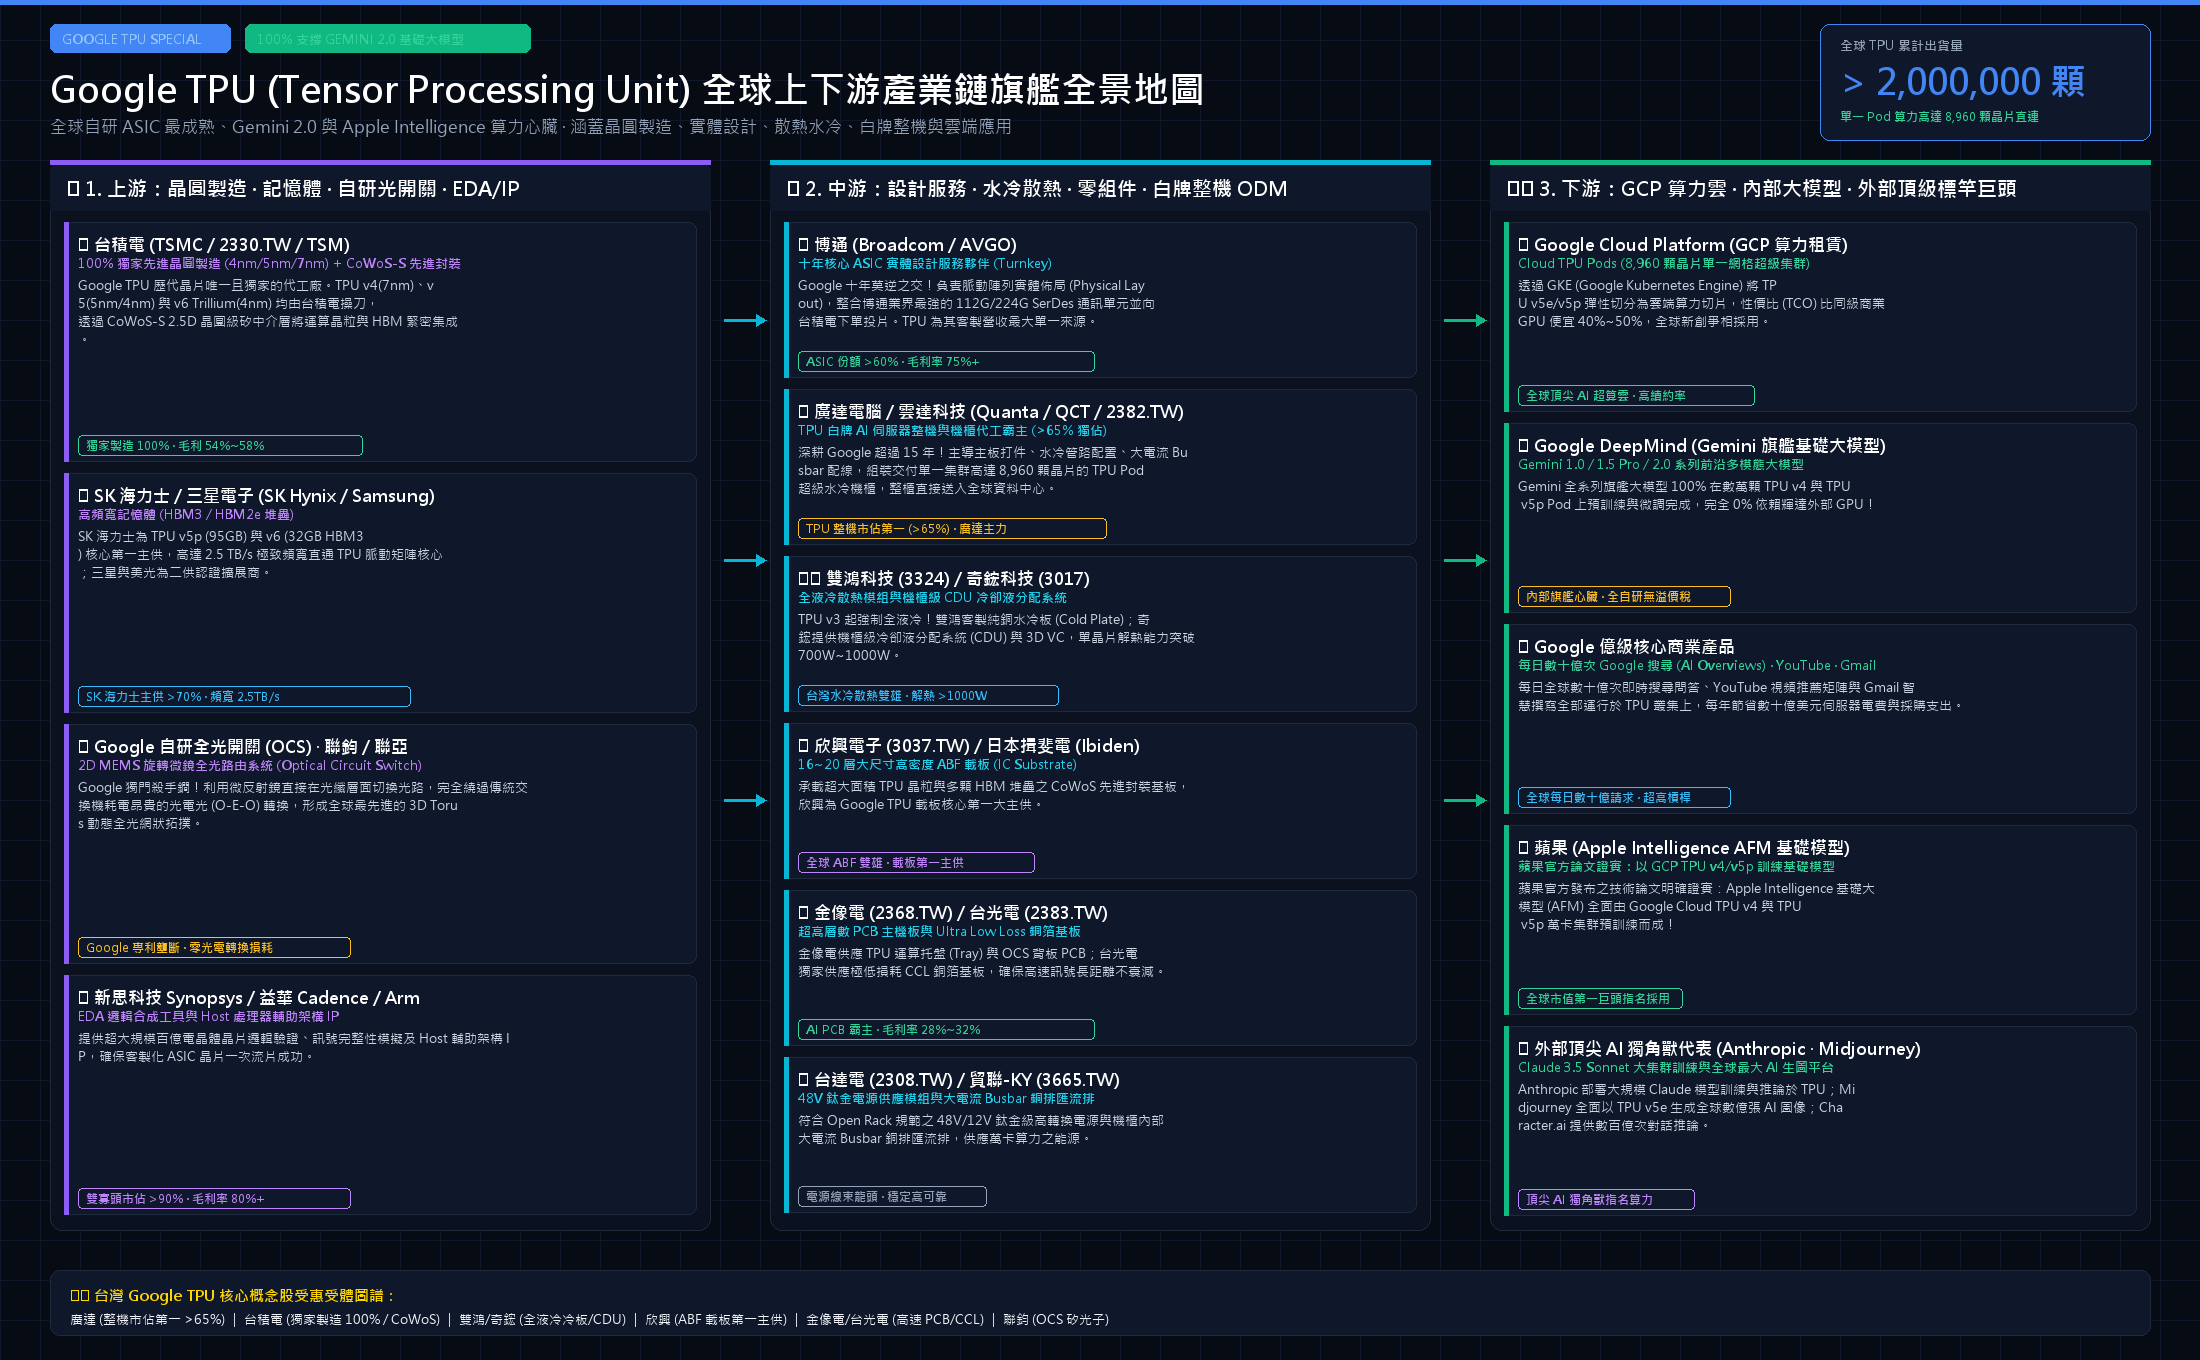
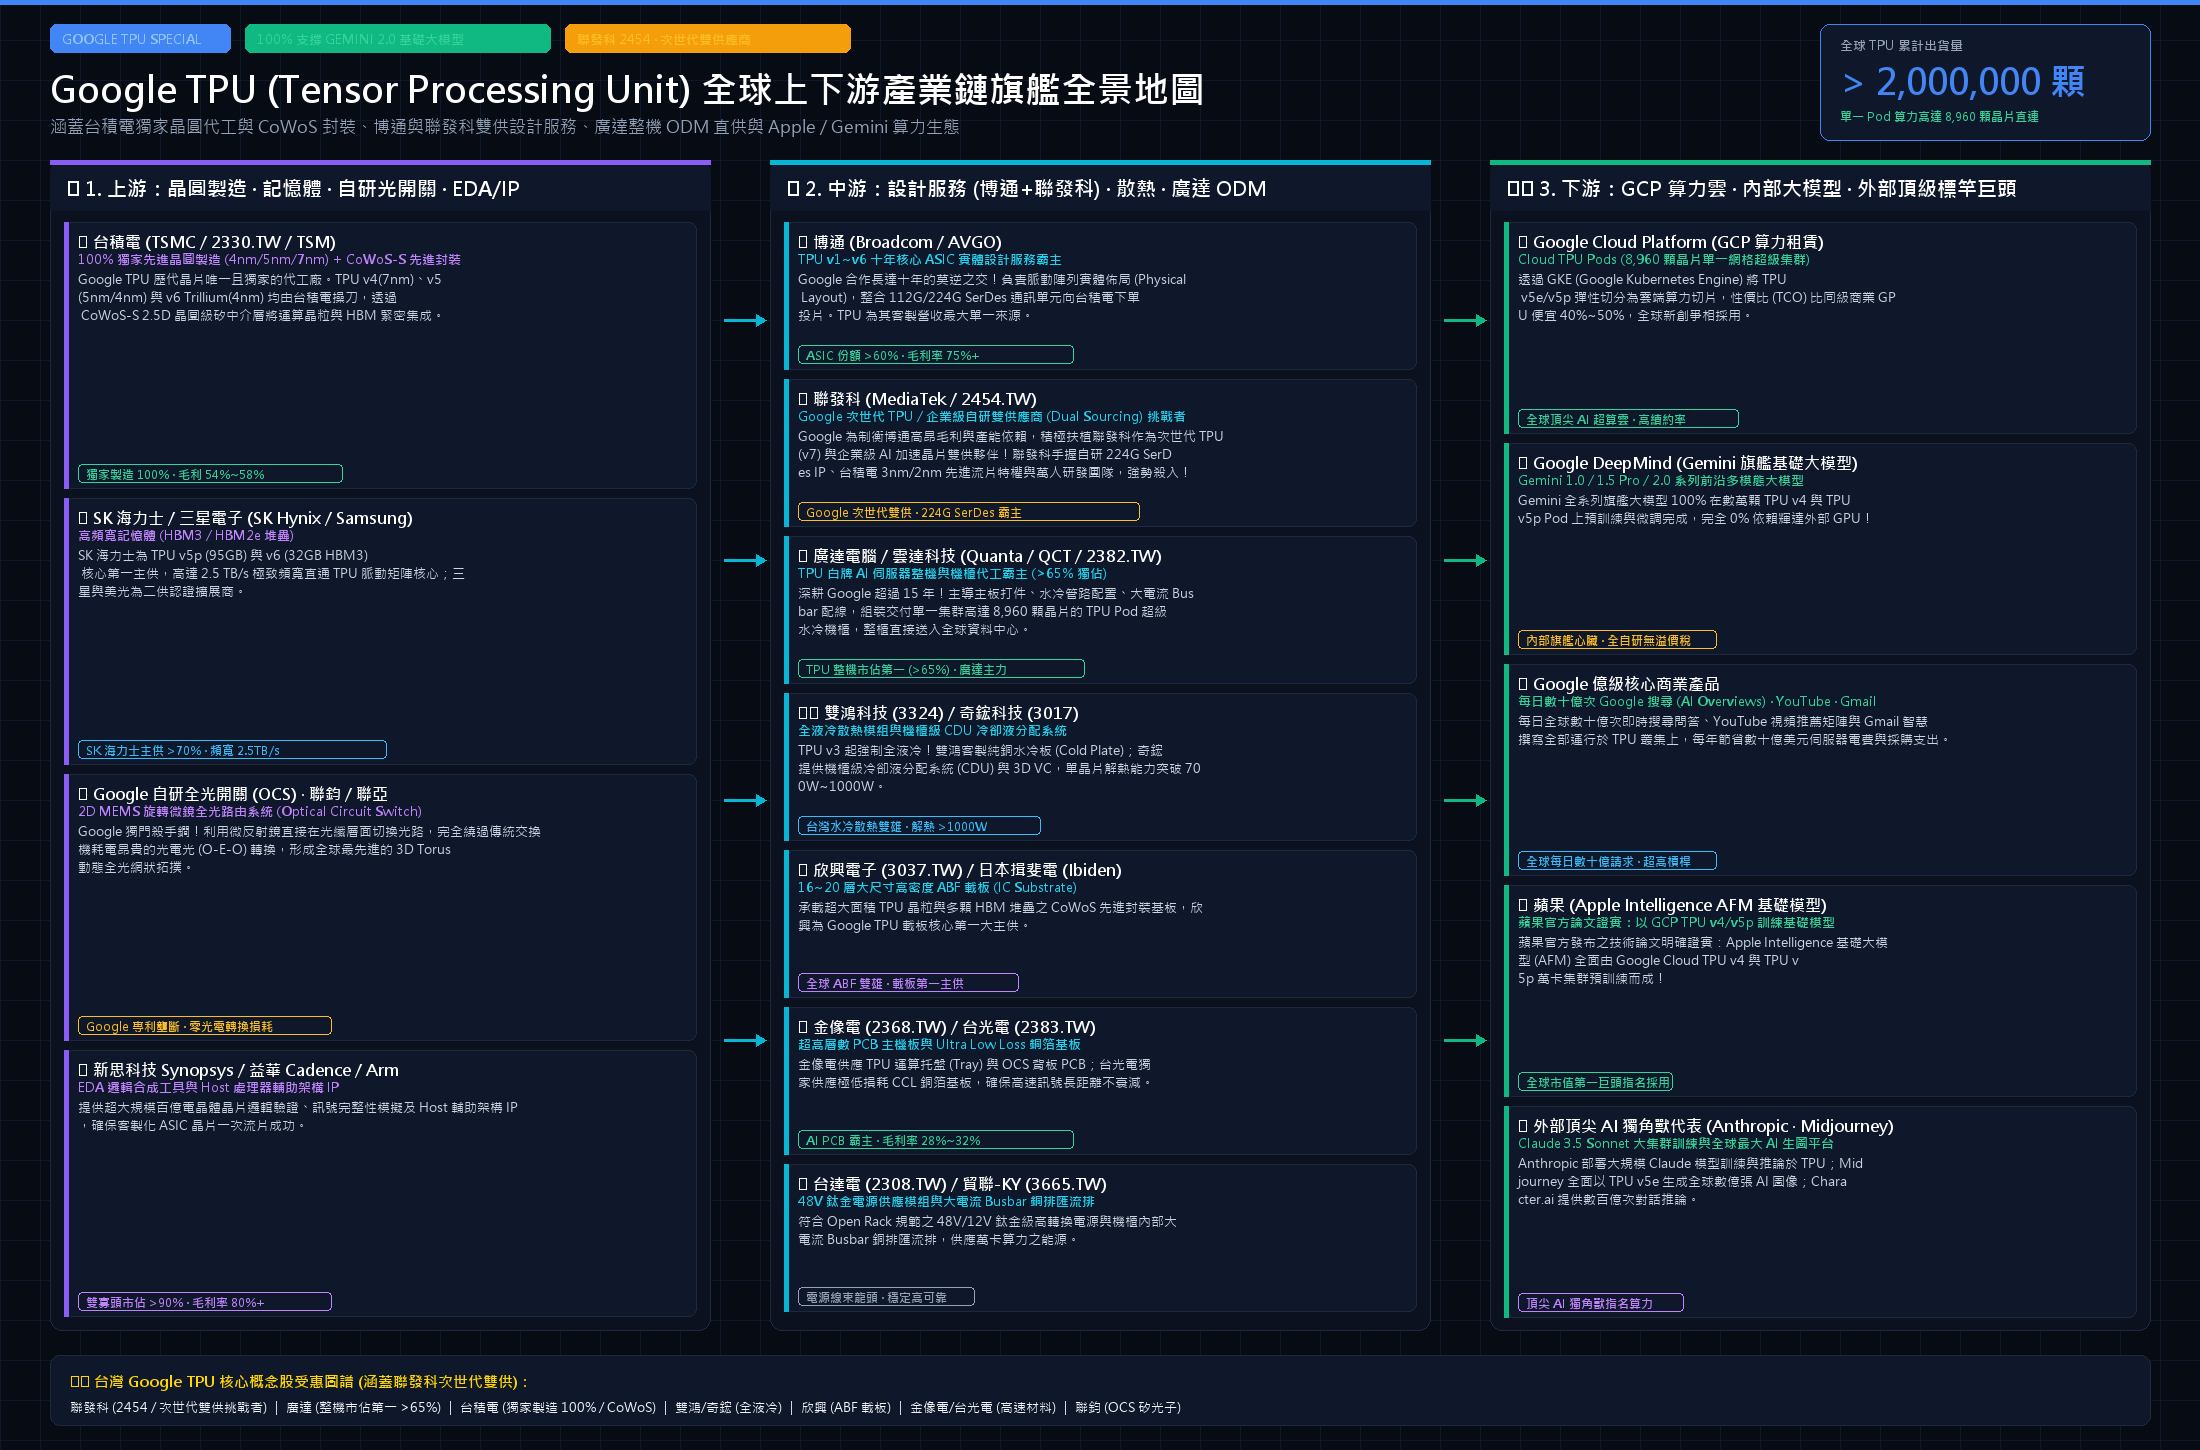
feat: launch ASIC & Cybersecurity Intelligence Terminal with interactive topology, TCO calculator, and stocks matrix

diff --git a/js/visualizer.js b/js/visualizer.js
@@ -355,12 +355,13 @@ class GoogleTpuVisualizer {
       tpu_up_eda: { id: "tpu_up_eda", stage: 1, name: "EDA 設計軟體與 IP", sub: "Synopsys / Cadence / Arm", col: 0, row: 3, margin: "80%+", role: "百億電晶體邏輯驗證、訊號完整性模擬及 Host 處理器輔助架構 IP", share: "雙寡頭市佔 >90%", tickers: ["SNPS", "CDNS", "ARM"] },
 
       // 2. 中游
-      tpu_mid_broadcom: { id: "tpu_mid_broadcom", stage: 2, name: "⭐ 博通 (Broadcom)", sub: "AVGO (十年核心設計夥伴)", col: 1, row: 0, margin: "75%+", role: "將 Google 脈動陣列藍圖進行實體佈局 (RTL to GDSII)，整合自研 224G SerDes 並協同台積電投片", share: "TPU 客製營收首要來源", tickers: ["AVGO"] },
-      tpu_mid_quanta: { id: "tpu_mid_quanta", stage: 2, name: "⭐ 廣達電腦 / 雲達 (QCT)", sub: "Quanta (2382.TW / 白牌 ODM 龍頭)", col: 1, row: 1, margin: "8.5% ~ 10%", role: "深耕 Google 超過 15 年，全面主導主板打件、水冷管路配置與 TPU Pod 8,960 顆晶片整機櫃集成組裝", share: "TPU 整機市佔第一 (>65%)", tickers: ["2382.TW"] },
-      tpu_mid_cooling: { id: "tpu_mid_cooling", stage: 2, name: "液冷散熱與 CDU 冷卻分配", sub: "雙鴻 (3324) / 奇鋐 (3017)", col: 1, row: 2, margin: "22% ~ 28%", role: "TPU v3 起強制全液冷，特製純銅水冷板 (Cold Plate) 與機櫃級 CDU，單晶片解熱能力突破 1000W", share: "台灣水冷散熱雙雄", tickers: ["3324.TW", "3017.TW"] },
-      tpu_mid_abf: { id: "tpu_mid_abf", stage: 2, name: "高階大尺寸 ABF 載板", sub: "欣興 (3037) / 揖斐電 (Ibiden)", col: 1, row: 3, margin: "25% ~ 30%", role: "承載超大面積 TPU 晶粒與多顆 HBM 堆疊之 16~20 層高密度載板，欣興為第一大主供", share: "全球載板雙雄", tickers: ["3037.TW", "4062.T"] },
-      tpu_mid_pcb: { id: "tpu_mid_pcb", stage: 2, name: "高層數 PCB 與低損耗 CCL", sub: "金像電 (2368) / 台光電 (2383)", col: 1, row: 4, margin: "28% ~ 32%", role: "供應 TPU 運算托盤 (Tray) 與 OCS 背板 PCB，台光電獨家供應 Ultra Low Loss 銅箔基板", share: "AI PCB 霸主", tickers: ["2368.TW", "2383.TW"] },
-      tpu_mid_power: { id: "tpu_mid_power", stage: 2, name: "高壓電源與 Busbar 線束", sub: "台達電 (2308) / 貿聯-KY (3665)", col: 1, row: 5, margin: "26% ~ 30%", role: "符合 Open Rack 規範之 48V/12V 鈦金級高轉換電源與大電流 Busbar 銅排匯流排", share: "電源線束龍頭", tickers: ["2308.TW", "3665.TW"] },
+      tpu_mid_broadcom: { id: "tpu_mid_broadcom", stage: 2, name: "⭐ 博通 (Broadcom)", sub: "AVGO (現行首供霸主)", col: 1, row: 0, margin: "75%+", role: "將 Google 脈動陣列藍圖進行實體佈局 (RTL to GDSII)，整合自研 224G SerDes 並協同台積電投片", share: "現行 TPU 首供 (>60%)", tickers: ["AVGO"] },
+      tpu_mid_mediatek: { id: "tpu_mid_mediatek", stage: 2, name: "🔥 聯發科 (2454.TW)", sub: "MediaTek (次世代雙供先鋒)", col: 1, row: 1, margin: "48% ~ 50%", role: "Google 去博通化關鍵戰略夥伴！以自研 224G SerDes IP、台積電 3nm/2nm 先進流片特權與萬人團隊，全力切入次世代 TPU (v7) 雙供體系", share: "次世代雙供候選 · 224G SerDes", tickers: ["2454.TW"] },
+      tpu_mid_quanta: { id: "tpu_mid_quanta", stage: 2, name: "⭐ 廣達電腦 / 雲達 (QCT)", sub: "Quanta (2382.TW / 白牌 ODM 龍頭)", col: 1, row: 2, margin: "8.5% ~ 10%", role: "深耕 Google 超過 15 年，全面主導主板打件、水冷管路配置與 TPU Pod 8,960 顆晶片整機櫃集成組裝", share: "TPU 整機市佔第一 (>65%)", tickers: ["2382.TW"] },
+      tpu_mid_cooling: { id: "tpu_mid_cooling", stage: 2, name: "液冷散熱與 CDU 冷卻分配", sub: "雙鴻 (3324) / 奇鋐 (3017)", col: 1, row: 3, margin: "22% ~ 28%", role: "TPU v3 起強制全液冷，特製純銅水冷板 (Cold Plate) 與機櫃級 CDU，單晶片解熱能力突破 1000W", share: "台灣水冷散熱雙雄", tickers: ["3324.TW", "3017.TW"] },
+      tpu_mid_abf: { id: "tpu_mid_abf", stage: 2, name: "高階大尺寸 ABF 載板", sub: "欣興 (3037) / 揖斐電 (Ibiden)", col: 1, row: 4, margin: "25% ~ 30%", role: "承載超大面積 TPU 晶粒與多顆 HBM 堆疊之 16~20 層高密度載板，欣興為第一大主供", share: "全球載板雙雄", tickers: ["3037.TW", "4062.T"] },
+      tpu_mid_pcb: { id: "tpu_mid_pcb", stage: 2, name: "高層數 PCB 與低損耗 CCL", sub: "金像電 (2368) / 台光電 (2383)", col: 1, row: 5, margin: "28% ~ 32%", role: "供應 TPU 運算托盤 (Tray) 與 OCS 背板 PCB，台光電獨家供應 Ultra Low Loss 銅箔基板", share: "AI PCB 霸主", tickers: ["2368.TW", "2383.TW"] },
+      tpu_mid_power: { id: "tpu_mid_power", stage: 2, name: "高壓電源與 Busbar 線束", sub: "台達電 (2308) / 貿聯-KY (3665)", col: 1, row: 6, margin: "26% ~ 30%", role: "符合 Open Rack 規範之 48V/12V 鈦金級高轉換電源與大電流 Busbar 銅排匯流排", share: "電源線束龍頭", tickers: ["2308.TW", "3665.TW"] },
 
       // 3. 下游
       tpu_down_gemini: { id: "tpu_down_gemini", stage: 3, name: "Gemini 2.0 / 1.5 旗艦大模型", sub: "Google DeepMind 核心訓練", col: 2, row: 0, margin: "全自研無溢價稅", role: "Gemini 1.0、1.5 Pro 與最新 2.0 前沿多模態大模型 100% 在 TPU Pod 上預訓練完成，0% 依賴外部 GPU", share: "內部旗艦核心", tickers: ["GOOGL"] },
@@ -375,13 +376,17 @@ class GoogleTpuVisualizer {
     return [
       // 上游至中游
       { from: "tpu_up_eda", to: "tpu_mid_broadcom" },
+      { from: "tpu_up_eda", to: "tpu_mid_mediatek" },
       { from: "tpu_up_tsmc", to: "tpu_mid_broadcom" },
+      { from: "tpu_up_tsmc", to: "tpu_mid_mediatek" },
       { from: "tpu_up_tsmc", to: "tpu_mid_abf" },
       { from: "tpu_up_hbm", to: "tpu_mid_broadcom" },
+      { from: "tpu_up_hbm", to: "tpu_mid_mediatek" },
       { from: "tpu_up_ocs", to: "tpu_mid_pcb" },
 
       // 中游各環節至廣達 ODM 整機整合
       { from: "tpu_mid_broadcom", to: "tpu_mid_quanta" },
+      { from: "tpu_mid_mediatek", to: "tpu_mid_quanta" },
       { from: "tpu_mid_abf", to: "tpu_mid_quanta" },
       { from: "tpu_mid_cooling", to: "tpu_mid_quanta" },
       { from: "tpu_mid_pcb", to: "tpu_mid_quanta" },
@@ -411,9 +416,9 @@ class GoogleTpuVisualizer {
       gap = 120;
       startY = 75;
     } else if (node.col === 1) {
-      h = 56;
-      gap = 82;
-      startY = 68;
+      h = 50;
+      gap = 71;
+      startY = 60;
     } else {
       h = 64;
       gap = 100;
@@ -606,8 +611,9 @@ class GoogleTpuVisualizer {
                 點選任意節點（如台積電、博通、廣達 ODM、自研 OCS 光開關、Gemini 2.0、蘋果 Apple Intelligence），動態點亮全鏈流向！
               </p>
             </div>
-            <div style="display:flex; gap:6px;">
+            <div style="display:flex; gap:6px; flex-wrap:wrap;">
               <button class="tco-mode-btn active" id="tpuFilterQuanta">聚焦廣達 ODM 整機</button>
+              <button class="tco-mode-btn" id="tpuFilterMediatek">🔥 聚焦聯發科次世代雙供</button>
               <button class="tco-mode-btn" id="tpuFilterTsmc">聚焦台積電 100% 製造</button>
               <button class="tco-mode-btn" id="tpuFilterApple">聚焦蘋果與 Gemini 算力</button>
             </div>
@@ -670,12 +676,18 @@ class GoogleTpuVisualizer {
     });
 
     const btnQuanta = this.container.querySelector("#tpuFilterQuanta");
+    const btnMediatek = this.container.querySelector("#tpuFilterMediatek");
     const btnTsmc = this.container.querySelector("#tpuFilterTsmc");
     const btnApple = this.container.querySelector("#tpuFilterApple");
 
     if (btnQuanta) {
       btnQuanta.addEventListener("click", () => {
         this.selectNode("tpu_mid_quanta");
+      });
+    }
+    if (btnMediatek) {
+      btnMediatek.addEventListener("click", () => {
+        this.selectNode("tpu_mid_mediatek");
       });
     }
     if (btnTsmc) {

diff --git a/js/asic_data.js b/js/asic_data.js
@@ -474,17 +474,24 @@ window.ASIC_SUPPLY_CHAIN_DATA = {
       },
       {
         tierId: "tpu_midstream",
-        titleZh: "⚡ 中游：設計服務 (Broadcom)、高階載板、水冷散熱與伺服器 ODM 整櫃",
-        titleEn: "Midstream: Broadcom Turnkey, ABF Substrate, Liquid Cooling & Quanta ODM",
+        titleZh: "⚡ 中游：設計服務 (Broadcom+聯發科)、高階載板、水冷散熱與伺服器 ODM 整櫃",
+        titleEn: "Midstream: Broadcom & MediaTek Turnkey, Liquid Cooling & Quanta ODM",
         color: "#06b6d4",
         description: "將 Google 的 TPU 演算法藍圖轉化為資料中心機櫃的關鍵中樞，台灣供應鏈在此扮演絕對主導角色！",
         categories: [
           {
-            name: "ASIC 設計服務與實體轉譯 (Turnkey)",
+            name: "ASIC 設計服務霸主 (現行旗艦首供)",
             keyPlayer: "博通 (Broadcom / AVGO)",
             role: "Google TPU 最核心的十年共同研發夥伴！博通負責將 Google 的脈動陣列架構進行實體設計佈局 (Physical Design)，整合特製高速 SerDes 通訊單元，並協同台積電進行流片與封裝封測。",
-            share: "博通客製營收最大單一來源",
+            share: "現行 TPU 首供 (>60%)",
             ticker: "AVGO"
+          },
+          {
+            name: "Google 次世代 TPU 雙供應商核心挑戰者",
+            keyPlayer: "聯發科 (MediaTek / 2454.TW)",
+            role: "Google 為了擺脫博通高達 70% 的高毛利定價與產能綁定，積極啟動雙供應商 (Dual Sourcing) 策略，全力扶植聯發科！聯發科手握自研 224G SerDes 關鍵 IP、台積電 3nm/2nm 先進製程流片特權，搶攻次世代 TPU (v7) 與企業級 AI 加速晶片專案。",
+            share: "次世代雙供候選 · 224G SerDes 霸主",
+            ticker: "2454.TW"
           },
           {
             name: "白牌 AI 伺服器整機與機櫃 ODM 龍頭",

diff --git a/js/app.js b/js/app.js
@@ -257,6 +257,7 @@ function renderCspChipsSection() {
   if (!container || !fullData) return;
 
   const taiwanTpuBeneficiaries = [
+    { name: "聯發科 (2454 / MediaTek)", role: "Google 去博通化關鍵先鋒！手握自研 224G SerDes 核心 IP 與台積電 3nm/2nm 先進流片特權，搶攻次世代 TPU (v7) 雙供 (Dual Sourcing) 體系", share: "次世代雙供核心候選", margin: "48% ~ 50%", ticker: "2454.TW" },
     { name: "廣達 (2382 / QCT)", role: "TPU 白牌 AI 伺服器整機與機櫃主供 (深耕 Google 超過 15 年，主導 TPU Pod 組裝)", share: "TPU 整機市佔第一 (>65%)", margin: "8.5% ~ 10%", ticker: "2382.TW" },
     { name: "台積電 (2330 / TSM)", role: "TPU 歷代晶片 100% 獨家先進晶圓製造 (v4 7nm, v5 5nm/4nm, v6 4nm) 與 CoWoS 封裝", share: "獨家製造 (100%)", margin: "54% ~ 58%", ticker: "2330.TW" },
     { name: "雙鴻 (3324)", role: "TPU 水冷板 (Cold Plate) 與液冷系統核心主力，單卡解熱能力突破 700W~1000W", share: "水冷散熱雙雄", margin: "25% ~ 28%", ticker: "3324.TW" },
